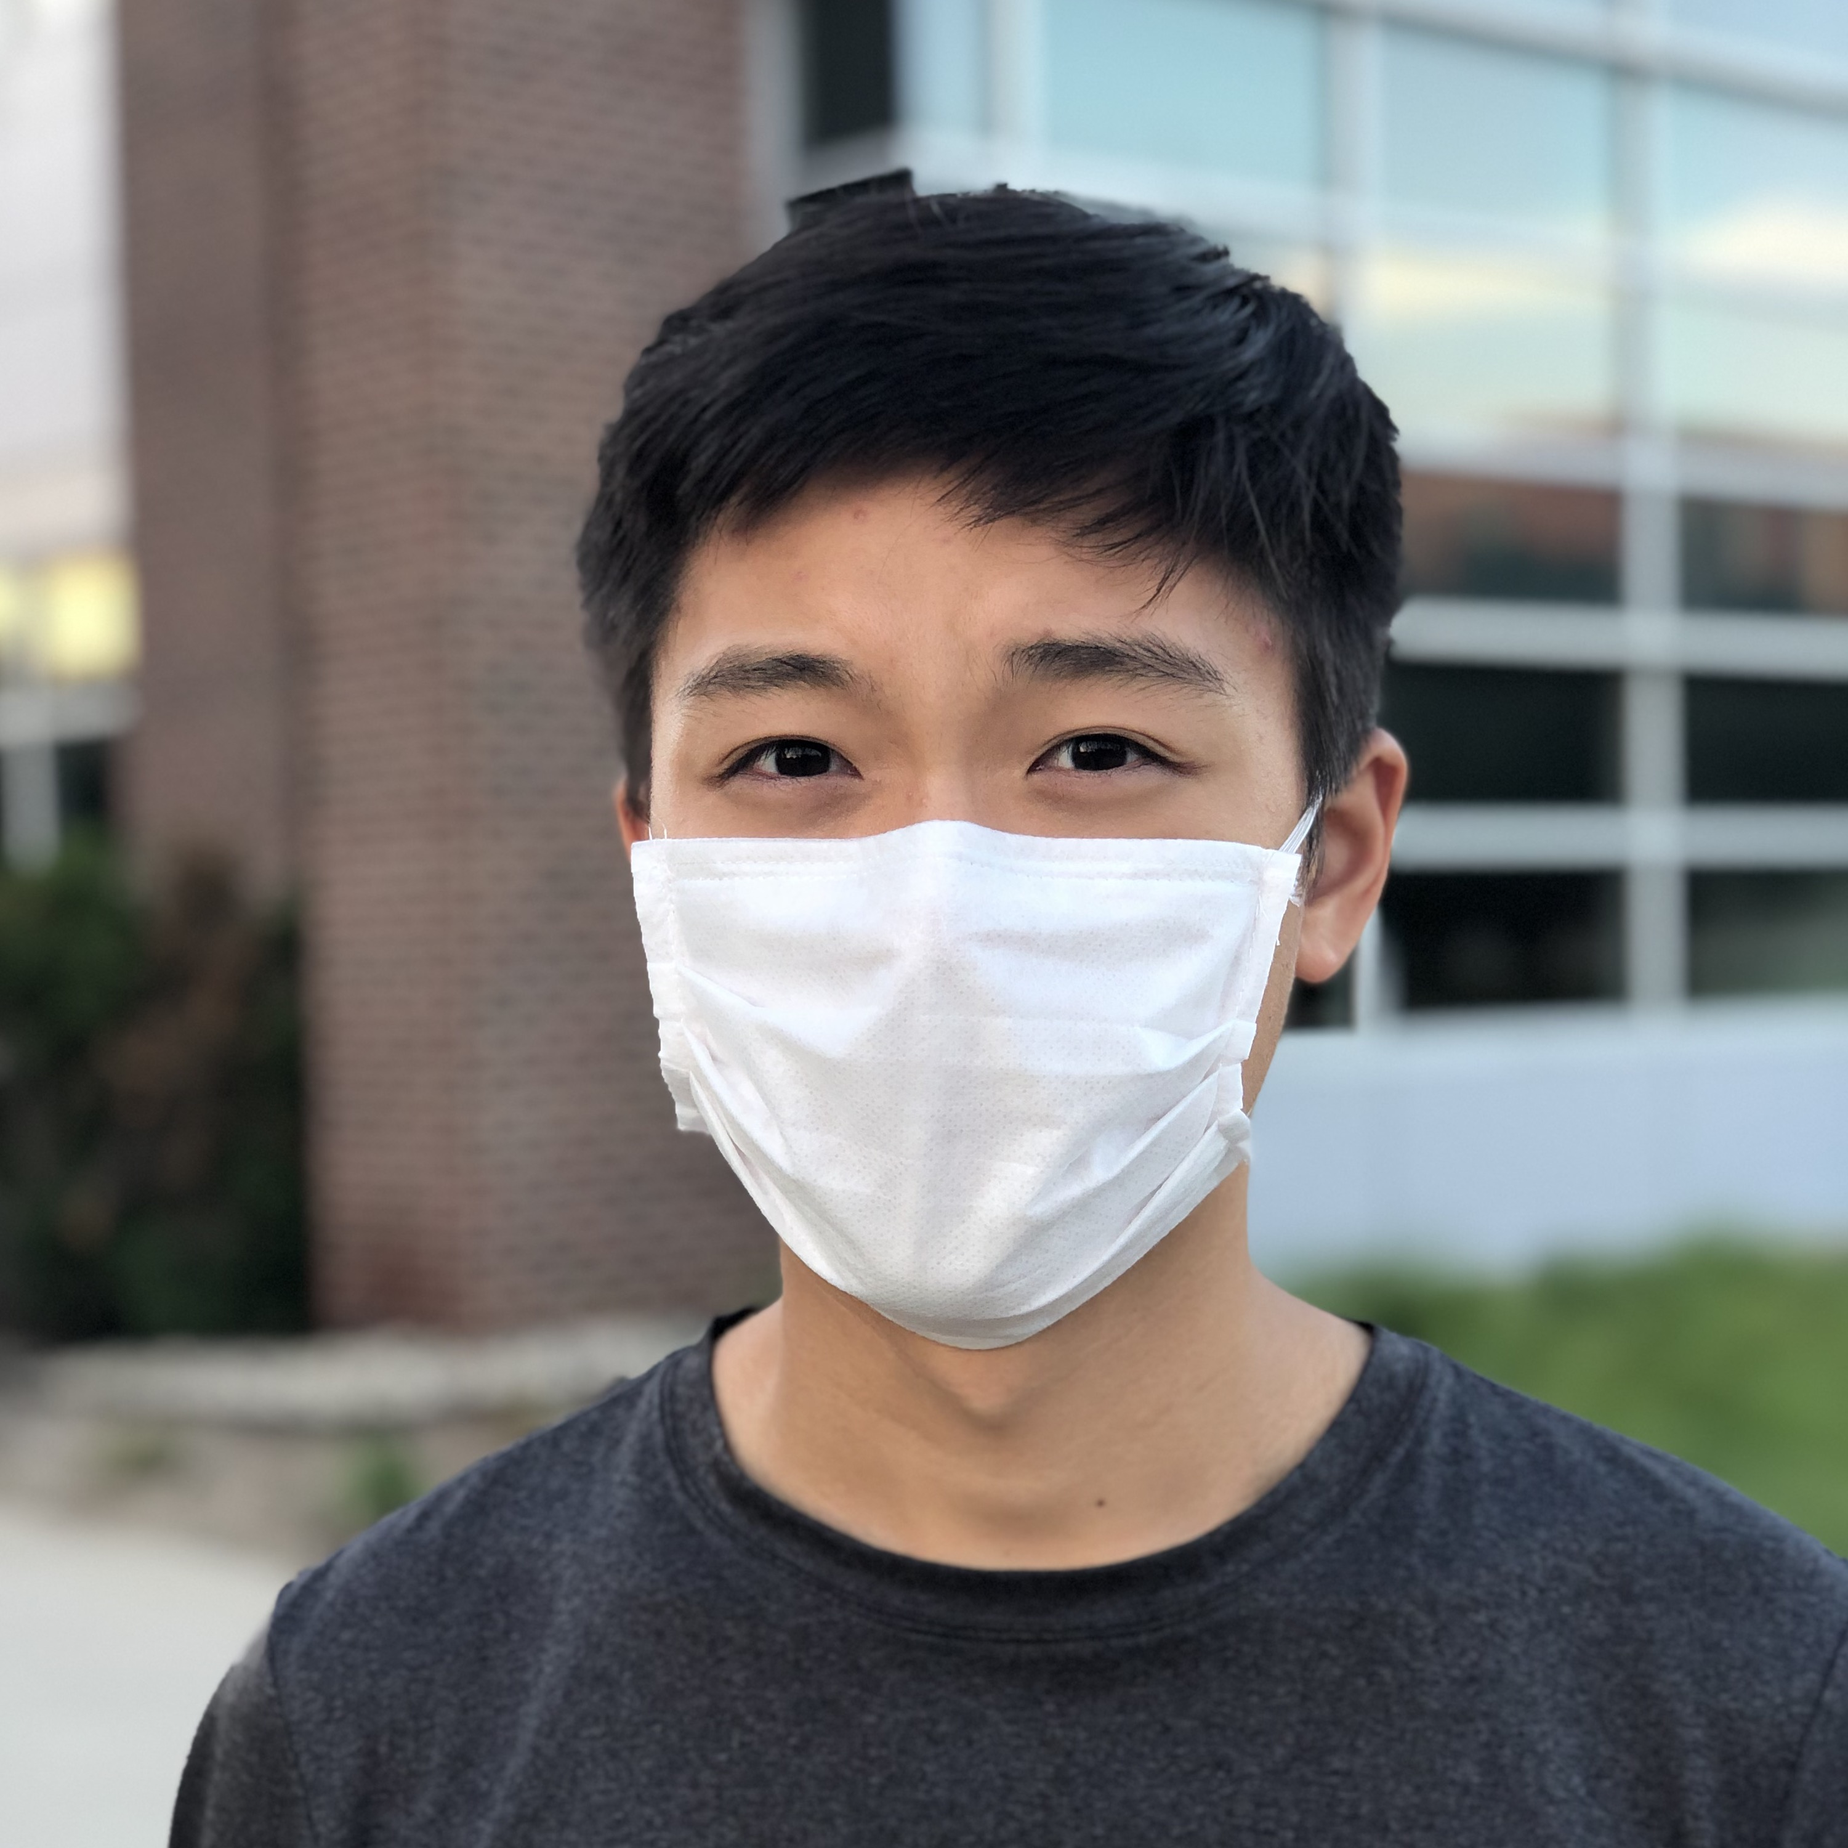
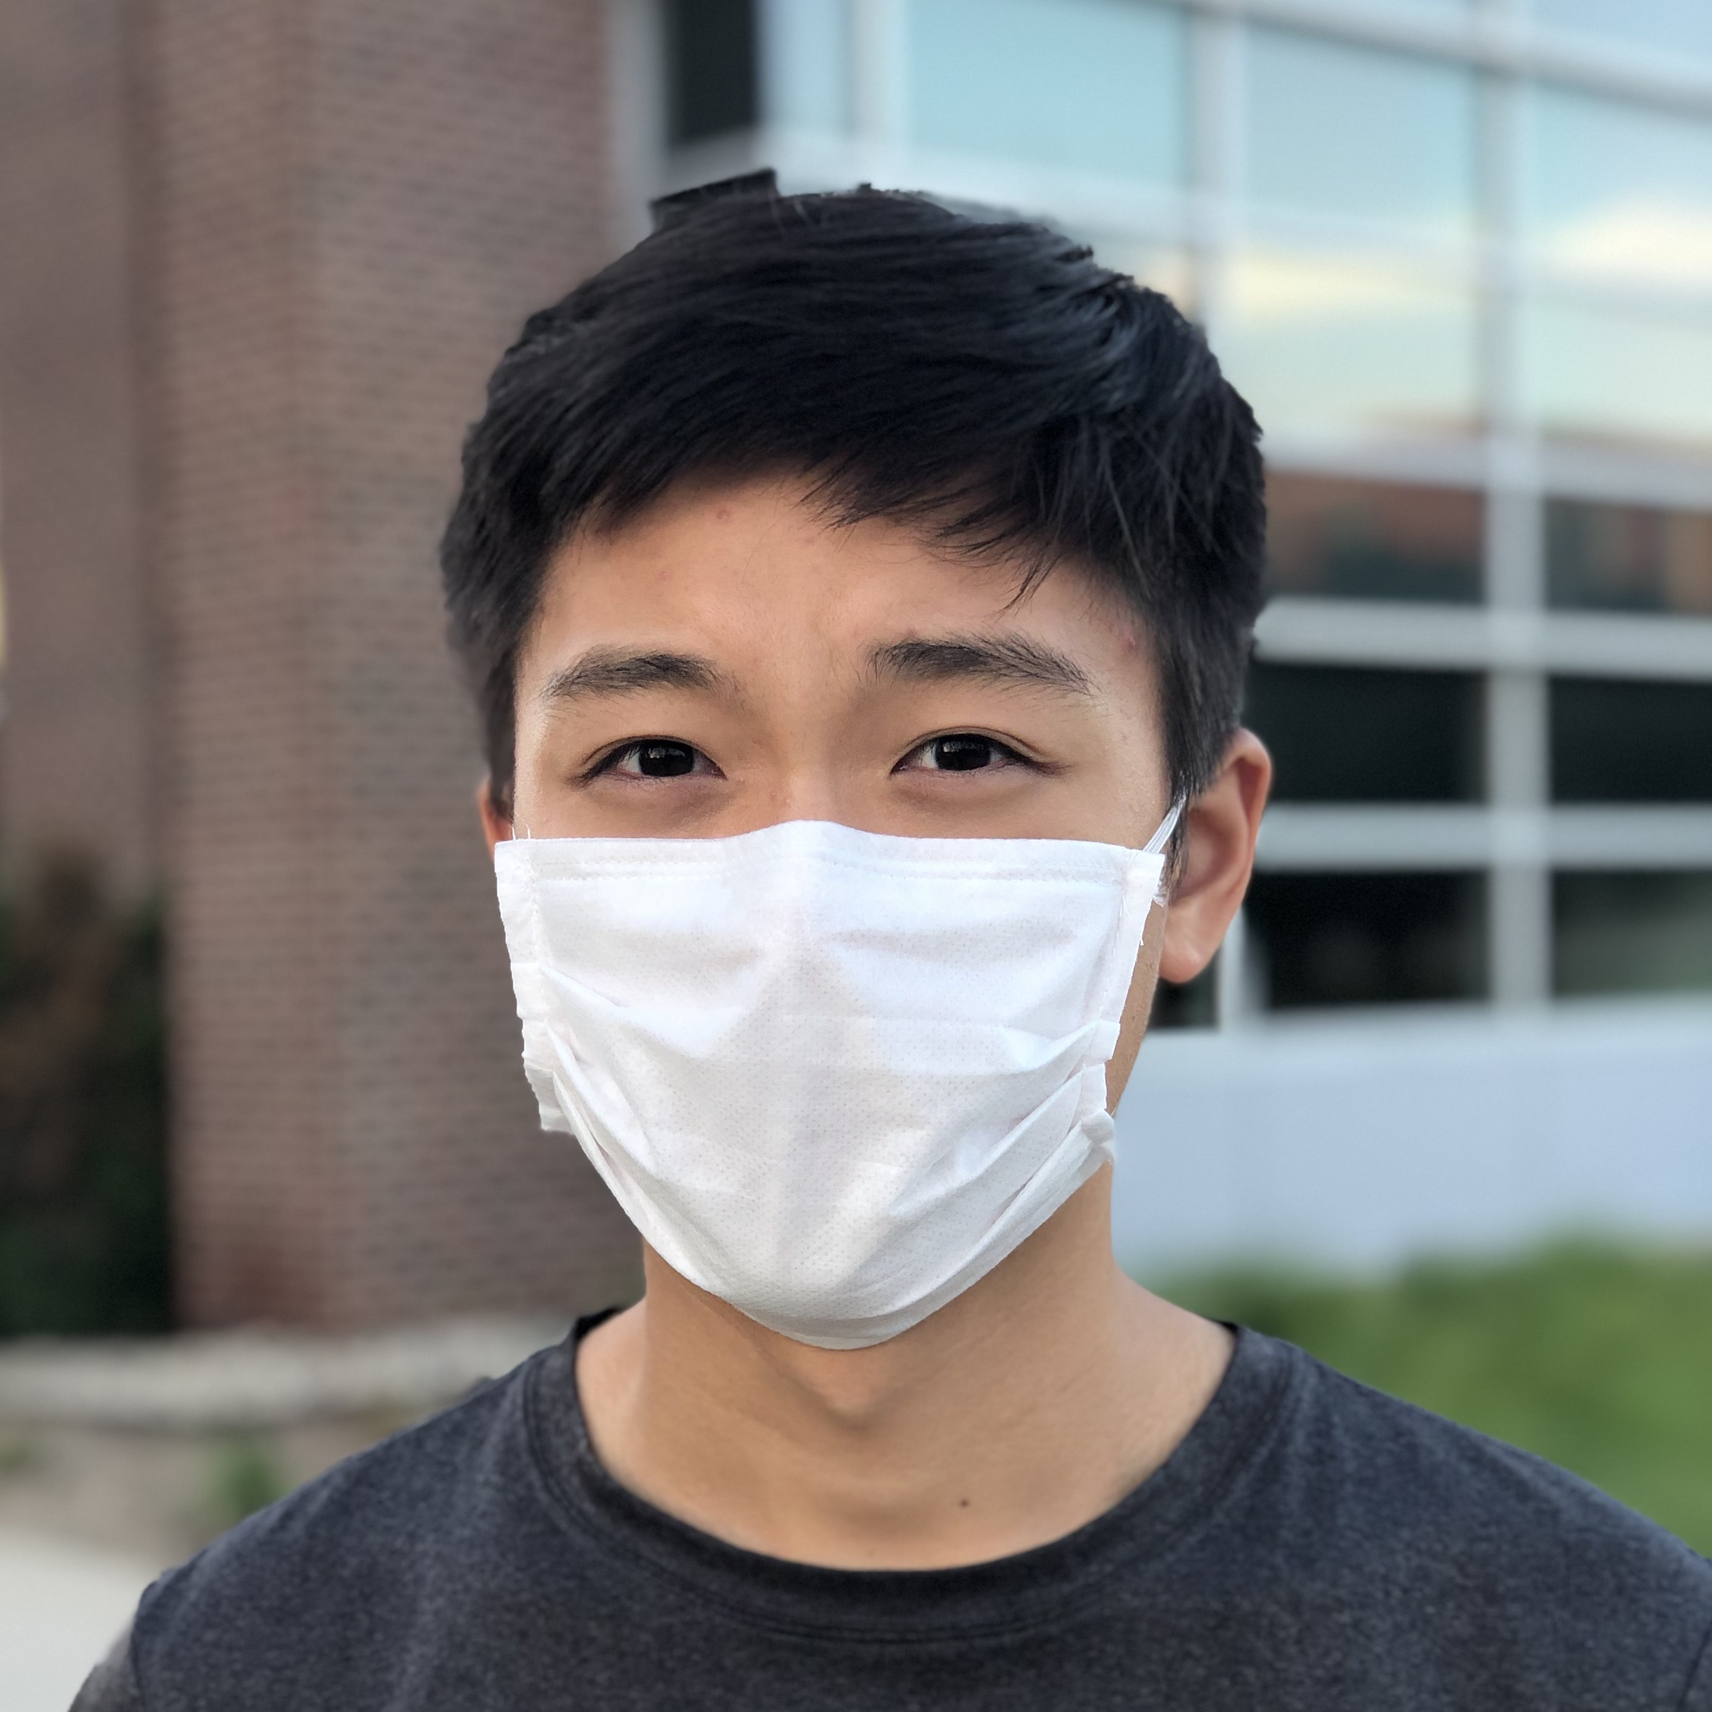
added profile pics on people page. Added more timeline points on the timeline page

diff --git a/interns.html b/interns.html
@@ -36,7 +36,7 @@
                 <div class="our-team-main shadow">
                 
                     <div class="team-front shadow-lg">
-                    <img src="http://placehold.it/110x110/336699/fff?text=Dilip" class="img-fluid" />
+                    <img src="http://placehold.it/110x110/336699/fff?text=tina" class="img-fluid" />
                     <h3>Tina Closser</h3>
                     <p>Project Mentor & Supervisor</p>
                     </div>
@@ -53,32 +53,14 @@
                 </div>
             </div>
         
-            <!--Ranger Kuang-->
-            <div class="col-lg-4">
-                <div class="our-team-main shadow">
-                
-                    <div class="team-front shadow-lg">
-                    <img src="Img/interns/ranger kuang.jpg" class="img-fluid" />
-                    <h3>Ranger Kuang</h3>
-                    <p>Radio Frequency, Website Design</p>
-                    </div>
-                    
-                    <div class="team-back">
-                    <span>
-                    Ranger is a rising senior at West Lafayette Jr./Sr. High School in West Lafayette, Indiana. He's currently interested in chemistry and computer science. 
-                    When he has free time, you can oftentimes find him playing tennis with his friends. 
-                    </span>
-                    </div>
-                
-                </div>
-            </div>
+            
             
             <!--Adam Terry-->
             <div class="col-lg-4">
                 <div class="our-team-main shadow">
                 
                     <div class="team-front shadow-lg">
-                    <img src="http://placehold.it/110x110/336699/fff?text=Dilip" class="img-fluid" />
+                    <img src="Img/interns/adam terry.jpg" class="img-fluid" />
                     <h3>Adam Terry</h3>
                     <p>Mother/Daughter Robot Design</p>
                     </div>
@@ -99,7 +81,7 @@
                 <div class="our-team-main shadow">
                 
                     <div class="team-front shadow-lg">
-                    <img src="http://placehold.it/110x110/607d8b/fff?text=Dilip" class="img-fluid" />
+                    <img src="Img/interns/brandon zhang.jpg" class="img-fluid" />
                     <h3>Brandon Zhang</h3>
                     <p>Mother/Daughter Robot Design</p>
                     </div>
@@ -120,7 +102,7 @@
                 <div class="our-team-main shadow">
                 
                     <div class="team-front shadow-lg">
-                    <img src="http://placehold.it/110x110/4caf50/fff?text=Dilip" class="img-fluid" />
+                    <img src="Img/interns/brandon velasquez.jpg" class="img-fluid" />
                     <h3>Brandon Velasquez</h3>
                     <p>Mother/Daughter Robot Design</p>
                     </div>
@@ -140,7 +122,7 @@
                 <div class="our-team-main shadow">
                 
                     <div class="team-front shadow-lg">
-                    <img src="http://placehold.it/110x110/4caf50/fff?text=Dilip" class="img-fluid" />
+                    <img src="Img/interns/kieran kasten.jpg" class="img-fluid" />
                     <h3>Kieran Kasten</h3>
                     <p>Mother/Daughter Robot Design</p>
                     </div>
@@ -160,7 +142,7 @@
                 <div class="our-team-main shadow">
                 
                     <div class="team-front shadow-lg">
-                    <img src="http://placehold.it/110x110/4caf50/fff?text=Dilip" class="img-fluid" />
+                    <img src="Img/interns/kiara streepy.jpg" class="img-fluid" />
                     <h3>Kiara Streepy</h3>
                     <p>Middle School Experiment Design</p>
                     </div>
@@ -175,12 +157,32 @@
                 
                 </div>
             </div>
+            <!--Sarah Naidu-->
+            <div class="col-lg-4">
+                <div class="our-team-main shadow">
+                
+                    <div class="team-front shadow-lg">
+                    <img src="http://placehold.it/110x110/4caf50/fff?text=Sarah" class="img-fluid" />
+                    <h3>Sarah Naidu</h3>
+                    <p>Middle School Experiment Design</p>
+                    </div>
+                    
+                    <div class="team-back">
+                    <span>
+                    Sarah attends University High School in Carmel, Indiana. 
+                    She's a rising senior there, and is currently interested in data science. 
+                    Her favorite things to do in her free time are reading and sleeping! 
+                    </span>
+                    </div>
+                
+                </div>
+            </div>
             <!--Ian Rose-->
             <div class="col-lg-4">
                 <div class="our-team-main shadow">
                 
                     <div class="team-front shadow-lg">
-                    <img src="http://placehold.it/110x110/4caf50/fff?text=Dilip" class="img-fluid" />
+                    <img src="Img/interns/ian rose.jpg" class="img-fluid" />
                     <h3>Ian Rose</h3>
                     <p>Radio Frequency</p>
                     </div>
@@ -200,7 +202,7 @@
                 <div class="our-team-main shadow">
                 
                     <div class="team-front shadow-lg">
-                    <img src="http://placehold.it/110x110/4caf50/fff?text=Dilip" class="img-fluid" />
+                    <img src="Img/interns/barrett tieman.jpg" class="img-fluid" />
                     <h3>Barrett Tieman</h3>
                     <p>Radio Frequency</p>
                     </div>
@@ -214,27 +216,53 @@
                 
                 </div>
             </div>
-
+            <!--Ranger Kuang-->
+            <div class="col-lg-4">
+                <div class="our-team-main shadow">
+                
+                    <div class="team-front shadow-lg">
+                    <img src="Img/interns/ranger kuang.jpg" class="img-fluid" />
+                    <h3>Ranger Kuang</h3>
+                    <p>Radio Frequency, Website Design</p>
+                    </div>
+                    
+                    <div class="team-back">
+                    <span>
+                    Ranger is a rising senior at West Lafayette Jr./Sr. High School in West Lafayette, Indiana. He's currently interested in chemistry and computer science. 
+                    When he has free time, you can oftentimes find him playing tennis with his friends. 
+                    </span>
+                    </div>
+                
+                </div>
+            </div>
             <!--Jacob Davis-->
             <div class="col-lg-4">
                 <div class="our-team-main shadow">
                 
                     <div class="team-front shadow-lg" >
-                    <img src="http://placehold.it/110x110/4caf50/fff?text=Dilip" class="img-fluid" />
+                    <img src="http://placehold.it/110x110/4caf50/fff?text=Jacob" class="img-fluid" />
                     <h3>Jacob Davis</h3>
                     <p>Project Manager, Website Design</p>
                     </div>
                     
                     <div class="team-back">
                     <span>
-                    Jacob is a ______
+                    Jacob graduated this past year from Washington High School in Washington, Indiana. He's planning on going to Indiana University, where he'll study marketing. 
+                    When he has extra time, he loves to play soccer and Call of Duty: Warzone with his friends! 
                     </span>
                     </div>
                 
                 </div>
             </div>
 	    </div>
-	</div>
+    </div>
+    <hr style="height:5px;border-width:0;background-color:white">
+    <h1 class="text-center" style="font-family: 'Raleway', sans-serif;">The Group @ WestGate</h1>
+    <div class="container">
+                <img src="Img/interns/westgate group.jpg" style="display: block;margin-left: auto; margin-right: auto; width: 70%;" />
+        
+    </div>
+    
 
 
 

diff --git a/timeline.html b/timeline.html
@@ -38,55 +38,82 @@
                     <li>
                         <a style="color: #22c0e8; font-size: 21px">Start of the 2020 Crane NSWC SEAP Internship</a>
                         <a class="float-right" style="color: #22c0e8; font-size: 21px">June 22</a>
-                        <p style="">
+                        <p>
                             The beginning of the 2020 SEAP internship program at Crane, Indiana. 
                         </p>
                     </li>
                     <li>
                         <a style="color: #22c0e8; font-size: 21px">"Little Mermaid" Task Revealed</a>
                         <a class="float-right" style="color: #22c0e8; font-size: 21px">July 2</a>
-                        <p style="">
+                        <p>
                             The task is to create a mother-daughter bot system, where the mother and multiple daughter bots 
                             can communicate over long distances through radio frequency waves. The mother must be able to tell the daughter bot a command, and the 
                             daughter bots must execute said command. 
                         </p>
                     </li>
                     <li>
-                        <a style="color: #22c0e8; font-size: 21px">Mother Bot Prototype Created</a>
-                        <a class="float-right" style="color: #22c0e8; font-size: 21px">??? </a>
-                        <p style="">
-                            lorem ipsum. 
-                        </p>
-                    </li>
-                    <li>
-                        <a style="color: #22c0e8; font-size: 21px">Daughter Bot Prototype Created</a>
-                        <a class="float-right" style="color: #22c0e8; font-size: 21px">??? </a>
-                        <p style="">
-                            lorem ipsum. 
-                        </p>
-                    </li>
-                    <li>
                         <a style="color: #22c0e8; font-size: 21px">Micro:bit Relay System Created</a>
-                        <a class="float-right" style="color: #22c0e8; font-size: 21px">??? </a>
-                        <p style="">
-                            lorem ipsum. 
+                        <a class="float-right" style="color: #22c0e8; font-size: 21px">July 2</a>
+                        <p>
+                            The basic relay idea was immediately clear to be the correct idea when the problem was presented.  The communication distances which the daughter robot and mother robot needed to communicate at were clearly too long for direct communication; thus a need for a relay became immediately clear.
                         </p>
-                        <img src='Img/relay system.png' alt='mother bot'/>
+                        <img src='Img/relay model.png' alt='relay system diagram thing'/>
                     </li>
                     <li>
-                        <a style="color: #22c0e8; font-size: 21px">Changed Micro:bit to Raspberry Pi Communication </a>
-                        <a class="float-right" style="color: #22c0e8; font-size: 21px">??? </a>
-                        <p style="">
+                        <a style="color: #22c0e8; font-size: 21px">Mother Bot Prototype Created</a>
+                        <a class="float-right" style="color: #22c0e8; font-size: 21px">July 3</a>
+                        <p>
+                            Interns began with an on-road focused robot design eventually making a rear wheel drive tire based development platform
+                        </p>
+                    </li>
+                    <li>
+                        <a style="color: #22c0e8; font-size: 21px">Micro:bit to Raspberry Pi Communication Prototype Design</a>
+                        <a class="float-right" style="color: #22c0e8; font-size: 21px">July 3</a>
+                        <p>
                             Decided to cable in information from the Micro:bit to the Raspberry Pi on the daughter bot. This is done
                             by attaching an additional Micro:bit on the daughter bot as well. 
                         </p>
+                        <img src='Img/micro to raspi .png' alt='micro to raspi'/>
                     </li>
+                    <li>
+                        <a style="color: #22c0e8; font-size: 21px">Daughter Bot Prototype Created</a>
+                        <a class="float-right" style="color: #22c0e8; font-size: 21px">July 7</a>
+                        <p>
+                            With the development of the mother robot complete, focus shifted to the payload carrying daughter.  
+                            This robot began its development cycle with a strong off road basis. 
+                            This robot would be deployed where the mother robot could not go, and would carry out its given mission via its particular payload. 
+                            (in this particular circumstance color detection)
+                        </p>
+
+                    </li>
+                    <li>
+                        <a style="color: #22c0e8; font-size: 21px">Mother Bot: Design Update</a>
+                        <a class="float-right" style="color: #22c0e8; font-size: 21px">July 10</a>
+                        <p>
+                            Trailer Concept took place of a roof based deployment strategy. Upon a mid-cycle review the roof deployment design was tested and this design showed little chance of a reliable deployment; 
+                            upon this discovery and at the recommendation of Cory Bergsrud, Crane interns looked into the development of a trailer.  
+                            This development led to a reusable design concept.
+                        </p>
+                        <img src='Img/mother bot.png' alt='mother bot'/>
+                    </li>
+                    
+                
                     </li>
                     <li>
                         <a style="color: #22c0e8; font-size: 21px">Preliminary Design Review</a>
                         <a class="float-right" style="color: #22c0e8; font-size: 21px">July 14</a>
-                        <p style="">
-                            The team presented their preliminary design review to Mrs. Closser as well as _______. 
+                        <p>
+                            The team presented their preliminary design review to Mrs. Closser as well as Dr. Cory Bergsrud. 
+                        </p>
+                    </li>
+                    <li>
+                        <a style="color: #22c0e8; font-size: 21px">Micro:bit Relay System Design Update </a>
+                        <a class="float-right" style="color: #22c0e8; font-size: 21px">July 15</a>
+                        <p>
+                            The Pin and Gravity System we were developing to captively hold the relays to the daughter upon review showed a lack of actual holding power. 
+                            This led to a development based on mounted hooks interfacing with the chain and a feature on the relay.
+
+
                         </p>
                     </li>
 
